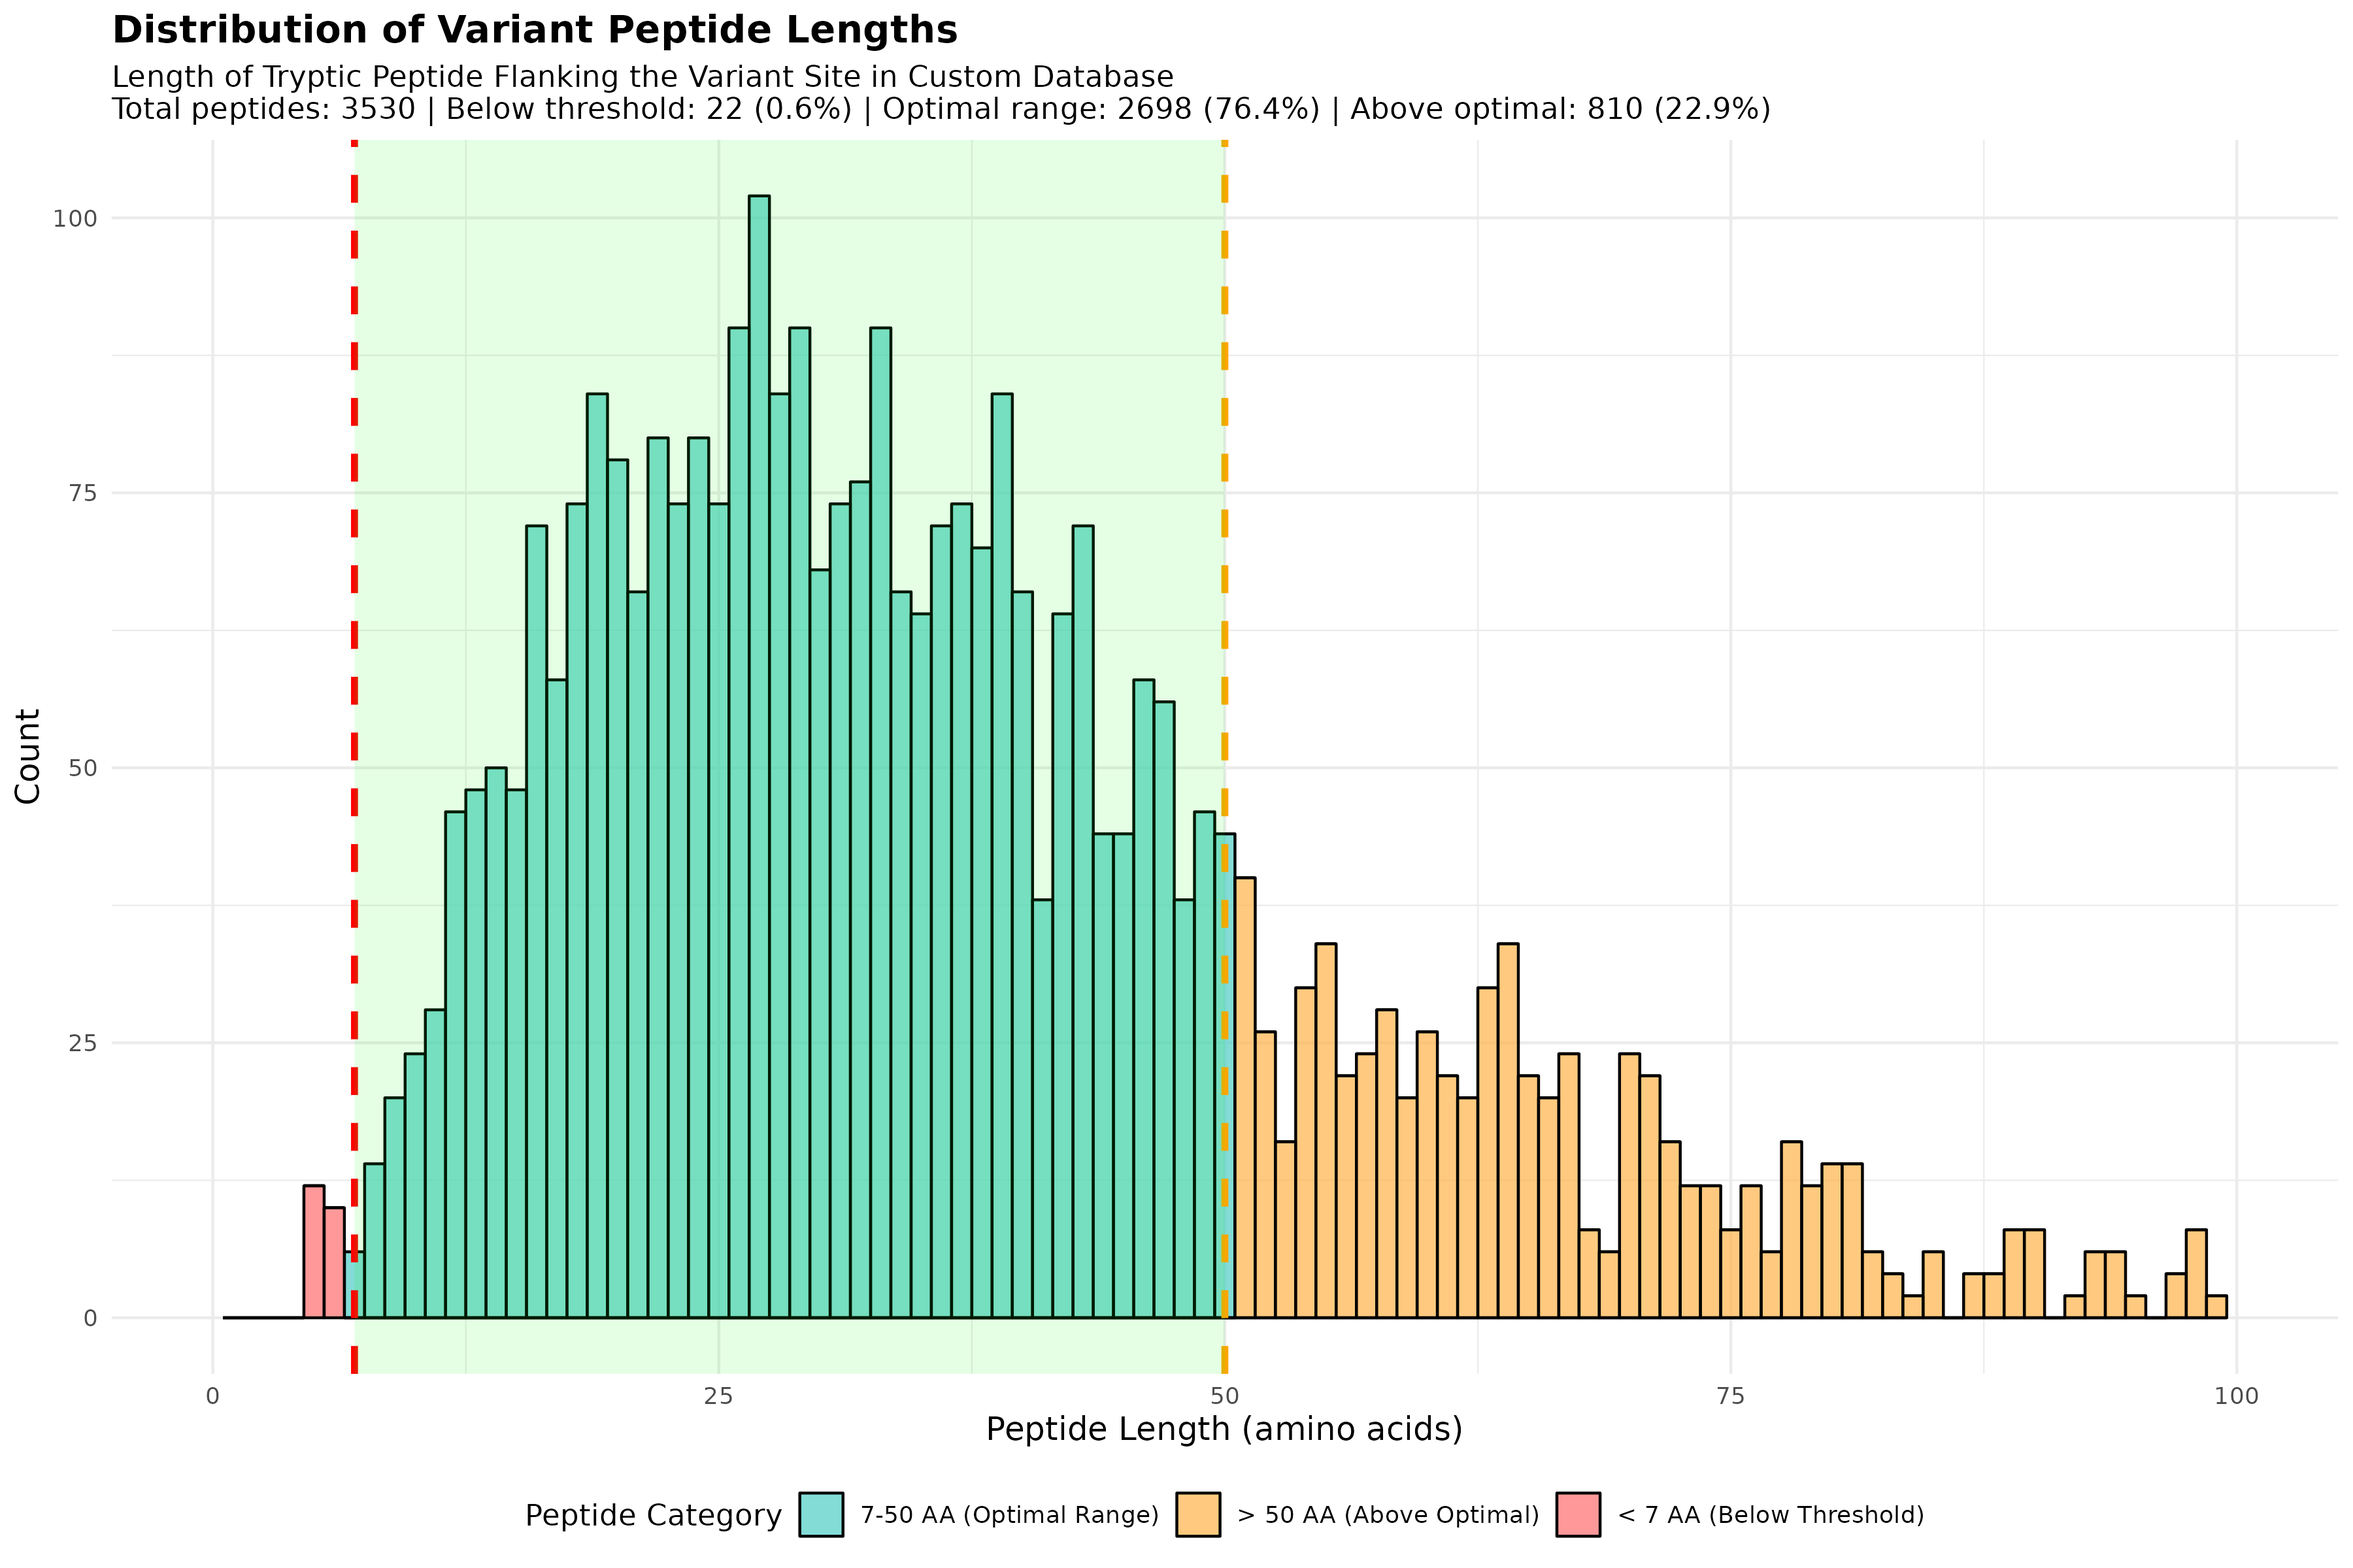
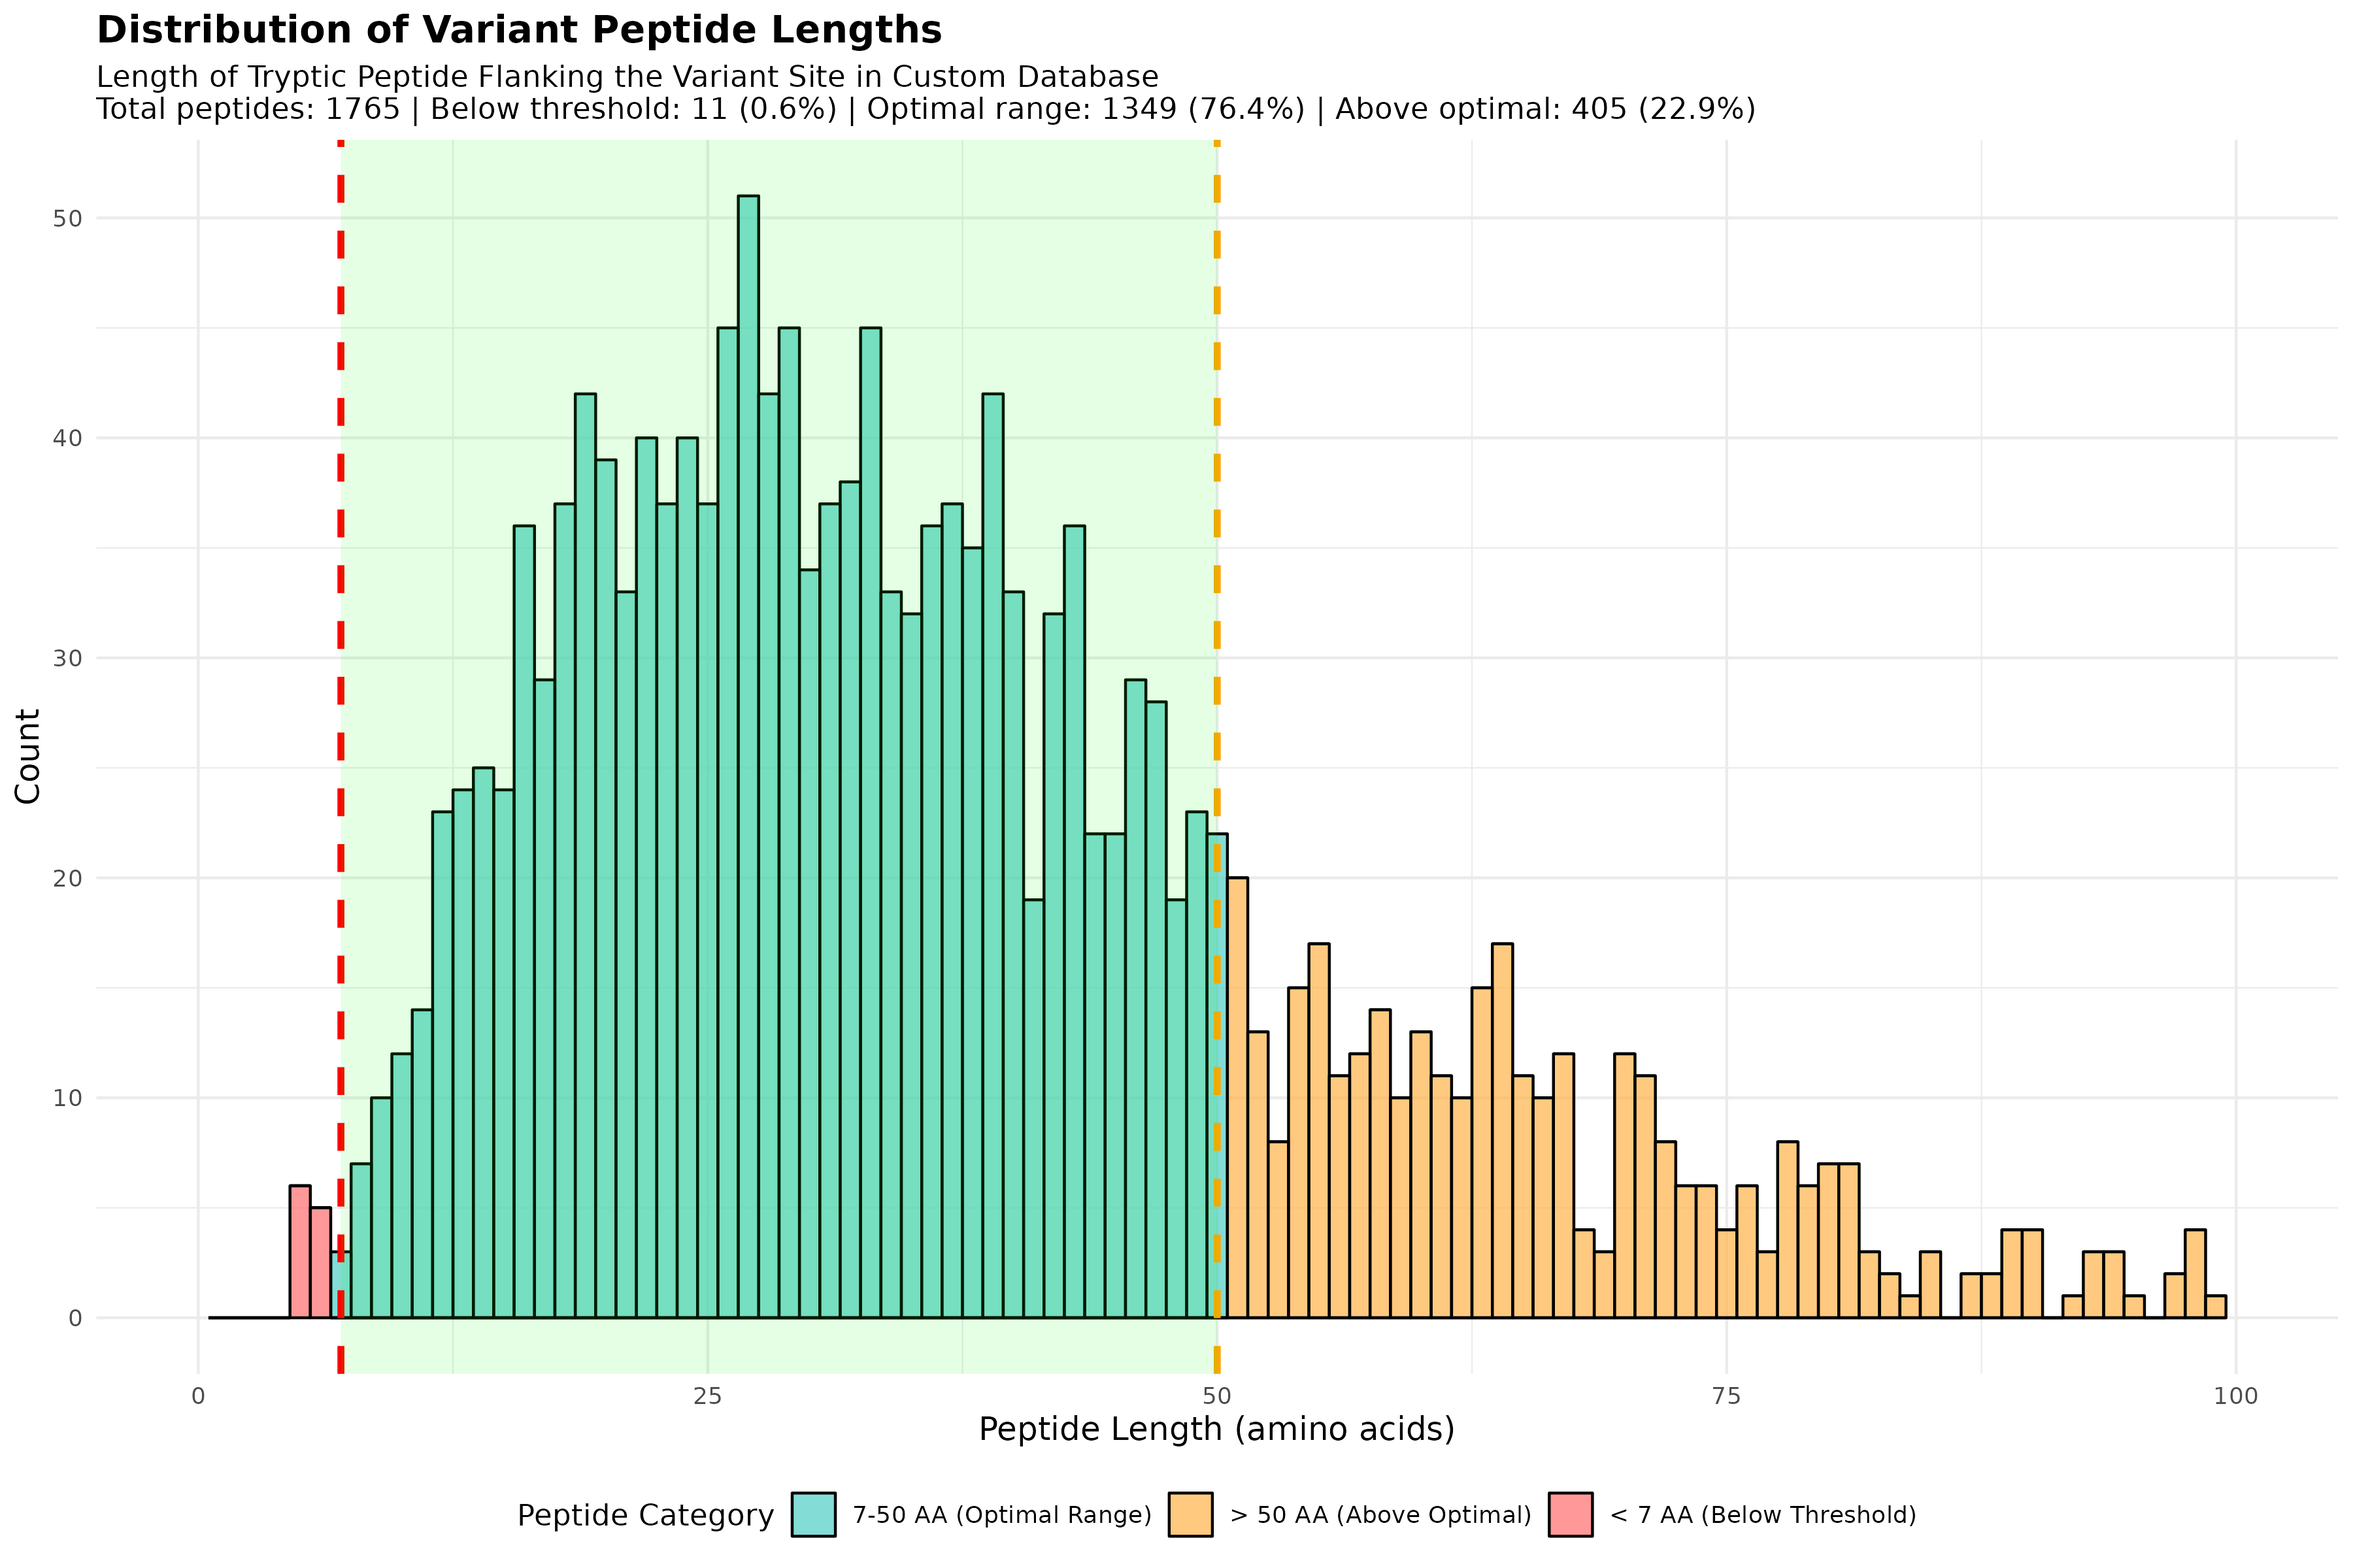
Fix CI dependency, histogram double counting and inconsistent labels
- tests: build the openai connection error without httpx, which openai 3.x no
  longer installs (CI failed on a clean environment)
- R Part 5 was labelled "2nd to 3rd K/R" but uses the same window as the
  peptide database (2nd K/R upstream to 2nd K/R downstream); rename and
  document it. The histogram now counts forward peptides only: decoys are
  exact reverses with the same length and doubled every count (3530 -> 1765,
  percentages unchanged)
- Summary metrics said "Proteins" but counted variant rows; relabel them and
  add the applied, dropped and peptide-database counts (1871 = 1869 + 2)
- Rename the Part 1 summary table so Part 2 no longer overwrites it
- README: correct column names and which are case-insensitive, describe the
  5-variant verification sample and the histogram, note that the MS search
  predates the 59 recovered variants
- config docstring, llm flag enum from FLAG_FIELDS, Node 24 action versions

Claude-Session: https://claude.ai/code/session_01EspHg18ZkhYmNdXHwwV6C8

diff --git a/tests/test_llm.py b/tests/test_llm.py
@@ -3,7 +3,6 @@
 import json
 from types import SimpleNamespace
 
-import httpx
 import openai
 import pytest
 
@@ -13,6 +12,14 @@ from rag_assistant import config, llm
 def _message(content=None, tool_calls=None):
     return SimpleNamespace(choices=[SimpleNamespace(message=SimpleNamespace(
         content=content, tool_calls=tool_calls))])
+
+
+def _connection_error():
+    """An openai.APIConnectionError without building an HTTP request object (the HTTP
+    library behind openai differs between SDK versions)."""
+    err = openai.APIConnectionError.__new__(openai.APIConnectionError)
+    Exception.__init__(err, "Connection error.")
+    return err
 
 
 def _tool_call(name, args):
@@ -38,8 +45,7 @@ def both_keys(monkeypatch):
 
 
 def test_falls_back_to_gemini_when_openai_fails(index, both_keys):
-    request = httpx.Request("POST", "https://api.openai.com/v1/chat/completions")
-    openai_client = FakeClient(error=openai.APIConnectionError(request=request))
+    openai_client = FakeClient(error=_connection_error())
     gemini_client = FakeClient(replies=[
         _message(tool_calls=[_tool_call("lookup_variant", {"gene": "NRAS", "protein_change": "G12C"})]),
         _message(content="NRAS G12C is pathogenic in ClinVar [clinvar:VCV900001] and a hotspot "

diff --git a/rag_assistant/llm.py b/rag_assistant/llm.py
@@ -9,7 +9,7 @@ import json
 import re
 
 from . import config
-from .retrieve import Index
+from .retrieve import FLAG_FIELDS, Index
 
 SYSTEM_PROMPT = """You are a variant-lookup assistant for the MOLT4 T-ALL cell line.
 Answer ONLY from the retrieved records and tool results. Each fact in them carries a
@@ -50,8 +50,7 @@ TOOLS = [
             "variant_type": {"type": "string", "description": "e.g. missense_variant, frameshift_variant, stop_gained"},
             "clinvar_significance": {"type": "string", "description": "e.g. pathogenic, likely_benign, uncertain_significance"},
             "am_class": {"type": "string", "description": "AlphaMissense class: likely_pathogenic, ambiguous, likely_benign"},
-            "flag": {"type": "string", "enum": ["Hotspot", "Hess Driver", "Likely LOF", "Oncogene High Impact",
-                                                "Tumor Suppressor High Impact"]},
+            "flag": {"type": "string", "enum": FLAG_FIELDS},
             "in_peptide_database": {"type": "boolean"},
             "limit": {"type": "integer", "default": 20},
         }},

diff --git a/rag_assistant/config.py b/rag_assistant/config.py
@@ -1,4 +1,8 @@
-"""Paths and model settings. Every value can be overridden with an environment variable."""
+"""Paths and model settings.
+
+API keys, model names and RAG_DATA_DIR come from the environment (or a .env file in the
+repo root); the input file paths are fixed relative to the repository.
+"""
 
 import os
 from pathlib import Path

diff --git a/README.md b/README.md
@@ -29,11 +29,11 @@ install.packages(c("tidyverse", "httr", "stringr", "readr", "knitr", "gridExtra"
 `MOLT4 mutations.csv`: the MOLT4 mutation table exported from the [DepMap portal](https://depmap.org/portal/)
 (cell line MOLT-4; GRCh38 coordinates with VEP, AlphaMissense, REVEL and DepMap's copy of ClinVar annotations).
 
-**Required Columns (case-insensitive):**
-- `Uniprot ID`: UniProt accession (e.g., P12345)
+**Required Columns:**
+- `Uniprot ID`: UniProt accession (e.g., `Q5SV97-1`); matched case-insensitively
 - `Variant Info`: Must include the string `"missense_variant"` (combined consequences such as
-  `missense_variant&splice_region_variant` are kept)
-- `Protein.Change`: Mutation notation (e.g., `p.P750Q`)
+  `missense_variant&splice_region_variant` are kept); matched case-insensitively
+- `Protein Change`: Mutation notation (e.g., `p.P750Q`); R reads it as `Protein.Change`
 - `Gene`: Gene symbol (e.g., `TP53`)
 
 
@@ -42,12 +42,13 @@ install.packages(c("tidyverse", "httr", "stringr", "readr", "knitr", "gridExtra"
 | File Name                                | Description |
 |------------------------------------------|-------------|
 | `MOLT4_mutations_with_sequences.csv`     | Filtered entries + canonical sequences |
-| `MOLT4_analysis_summary.csv`             | Summary of processing/filtering stats |
+| `MOLT4_analysis_summary.csv`             | Variant counts at each step, from input rows to the peptide database |
 | `MOLT4_mutated_protein_output.csv`       | Mutated forward/reverse protein sequences + metadata |
 | `MOLT4_mutated_protein_database.fasta`   | FASTA-formatted protein sequences (mutated) |
 | `MOLT4_mutated_peptide_database.fasta`   | FASTA-formatted peptides around mutations |
 | `MOLT4_peptide_data.csv`                 | Peptide details and positional metadata |
 | `MOLT4_dropped_variants.csv`             | Missense variants left out of the databases, with the reason |
+| `MOLT4_variant_peptide_length_histogram.png` | Length distribution of the forward variant peptides |
 | `uniprot_sequence_cache.csv`             | Local cache of downloaded UniProt sequences (git-ignored) |
 
 
@@ -88,9 +89,17 @@ install.packages(c("tidyverse", "httr", "stringr", "readr", "knitr", "gridExtra"
 
 ### 5. Verification
 
-- Checks boundary correctness of extracted peptides
-- Validates mutation position
-- Ensures the mutation is reflected in the peptide
+- Spot-checks a reproducible random sample of 5 variants (forward and reverse peptides):
+  K/R boundaries, mutation position, and that the mutated residue is in the peptide
+
+### 6. Peptide Length Distribution
+
+- Uses the same window as the peptide database (2nd K/R upstream to 2nd K/R downstream),
+  skipping the 104 variants with fewer than 2 K/R on one side, which leaves 1765 peptides
+- Counts forward peptides only: each reverse (decoy) peptide has the same length as its
+  forward peptide
+- Bins: below 7 aa (11, 0.6%), 7–50 aa (1349, 76.4%), above 50 aa (405, 22.9%). The plot's
+  x-axis stops at 100 aa, so the longest peptides are counted but not drawn
 
 ## FASTA Header Example (forward strand) for protein database:
 >Fwd_spP750Q|Q5SV97-1|PERM1_P750Q OS=Homo sapiens GN=PERM1 (Sequence)
@@ -105,6 +114,9 @@ with FragPipe, and the results were compared in
 [ndaw365/MOLT4-Checking](https://github.com/ndaw365/MOLT4-Checking). The peptide hits from that
 search (`matched_peptides_to_tryptic_peptides.tsv`) are copied here as
 `data_sources/MOLT4_detected_variant_peptides.tsv` so the assistant below can report them.
+
+That search used the database as it was before the filter fix (1810 variants), so the 59
+variants recovered by the fix have not been searched yet.
 
 Of the 41 target peptide hits, only 7 span the mutated residue (EVL D20N, COPS7B A224T,
 TUBA4A E77D, CDC45 E259K, DUSP7 R102C, BRD4 P1131A, P2RX4 Y378F). The other 34 match the
